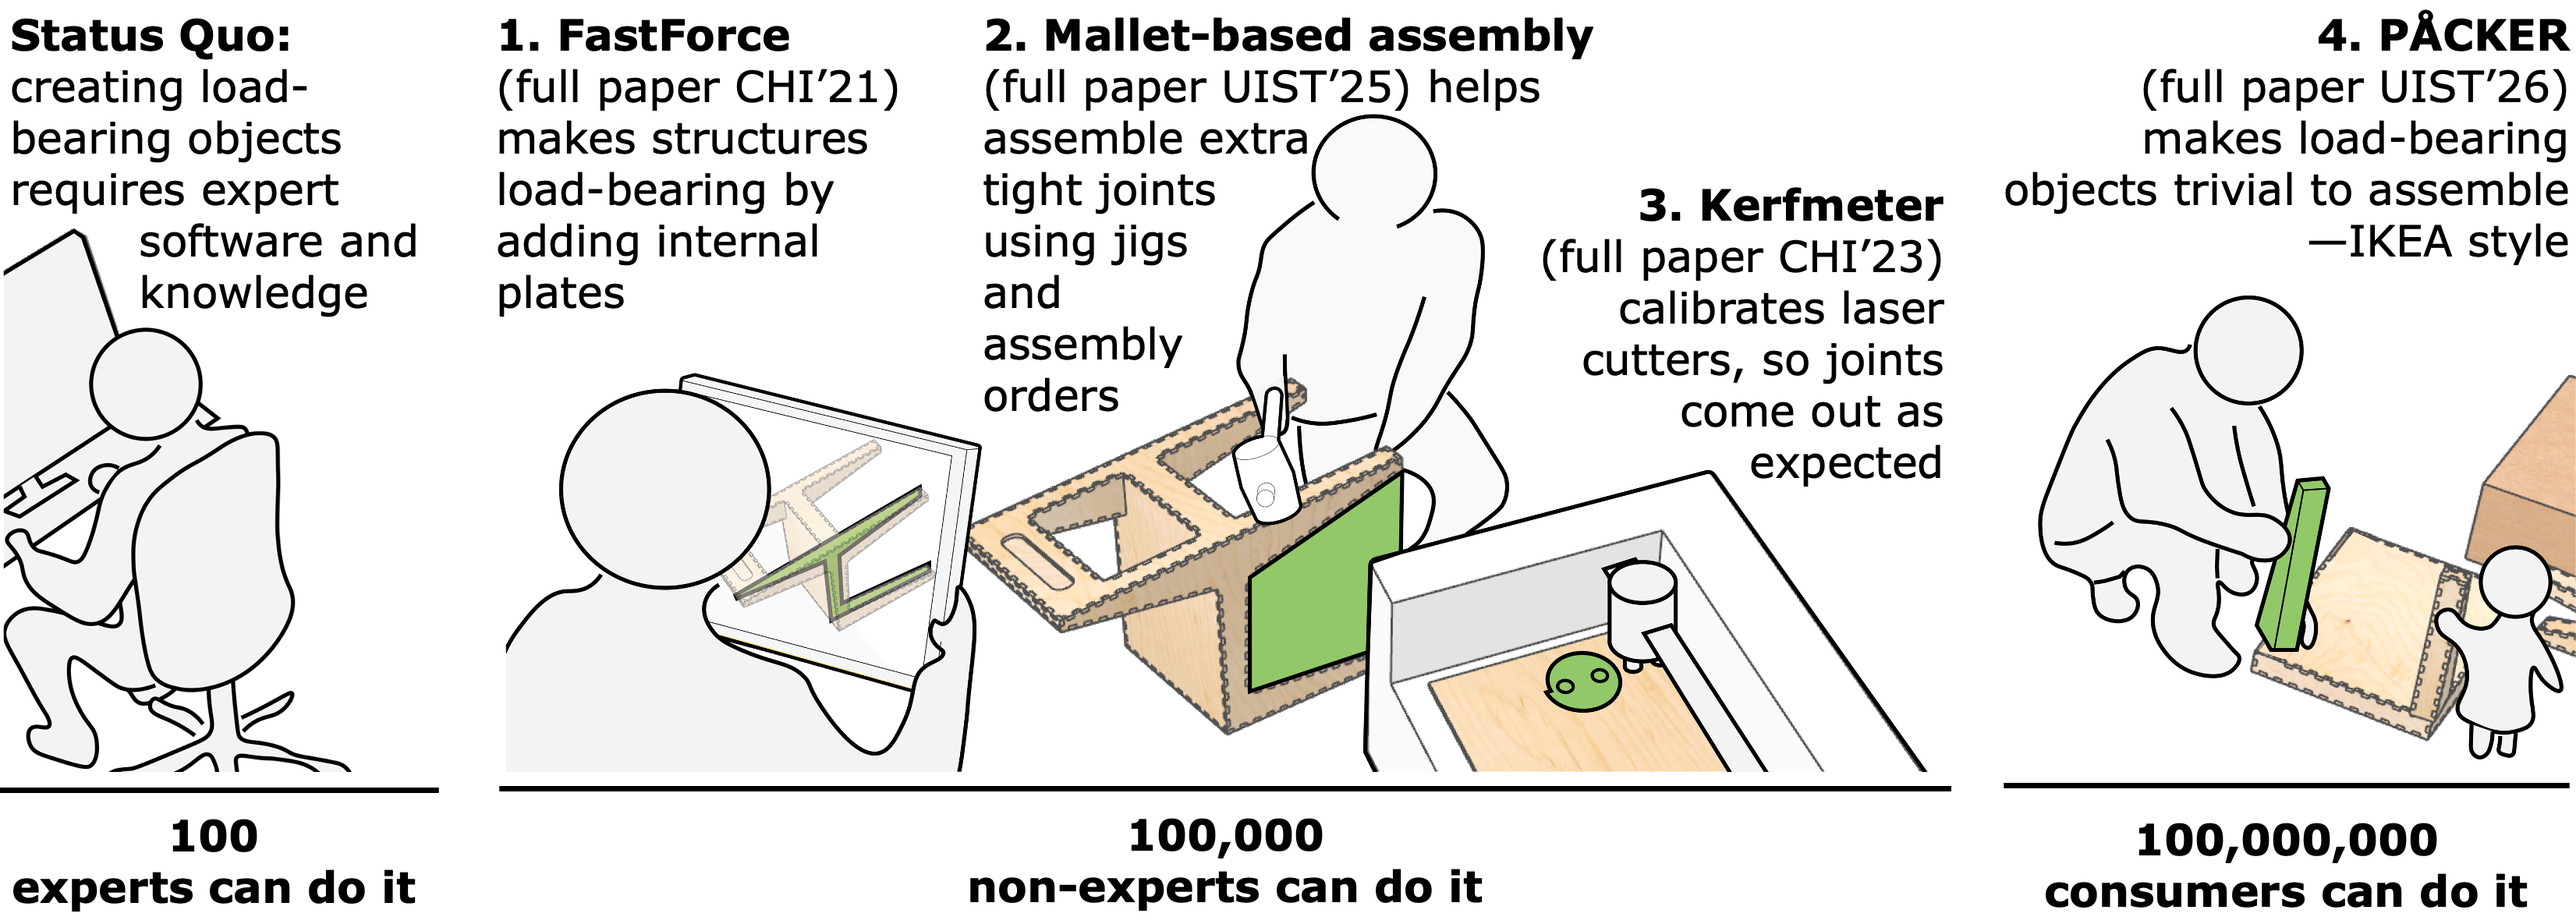
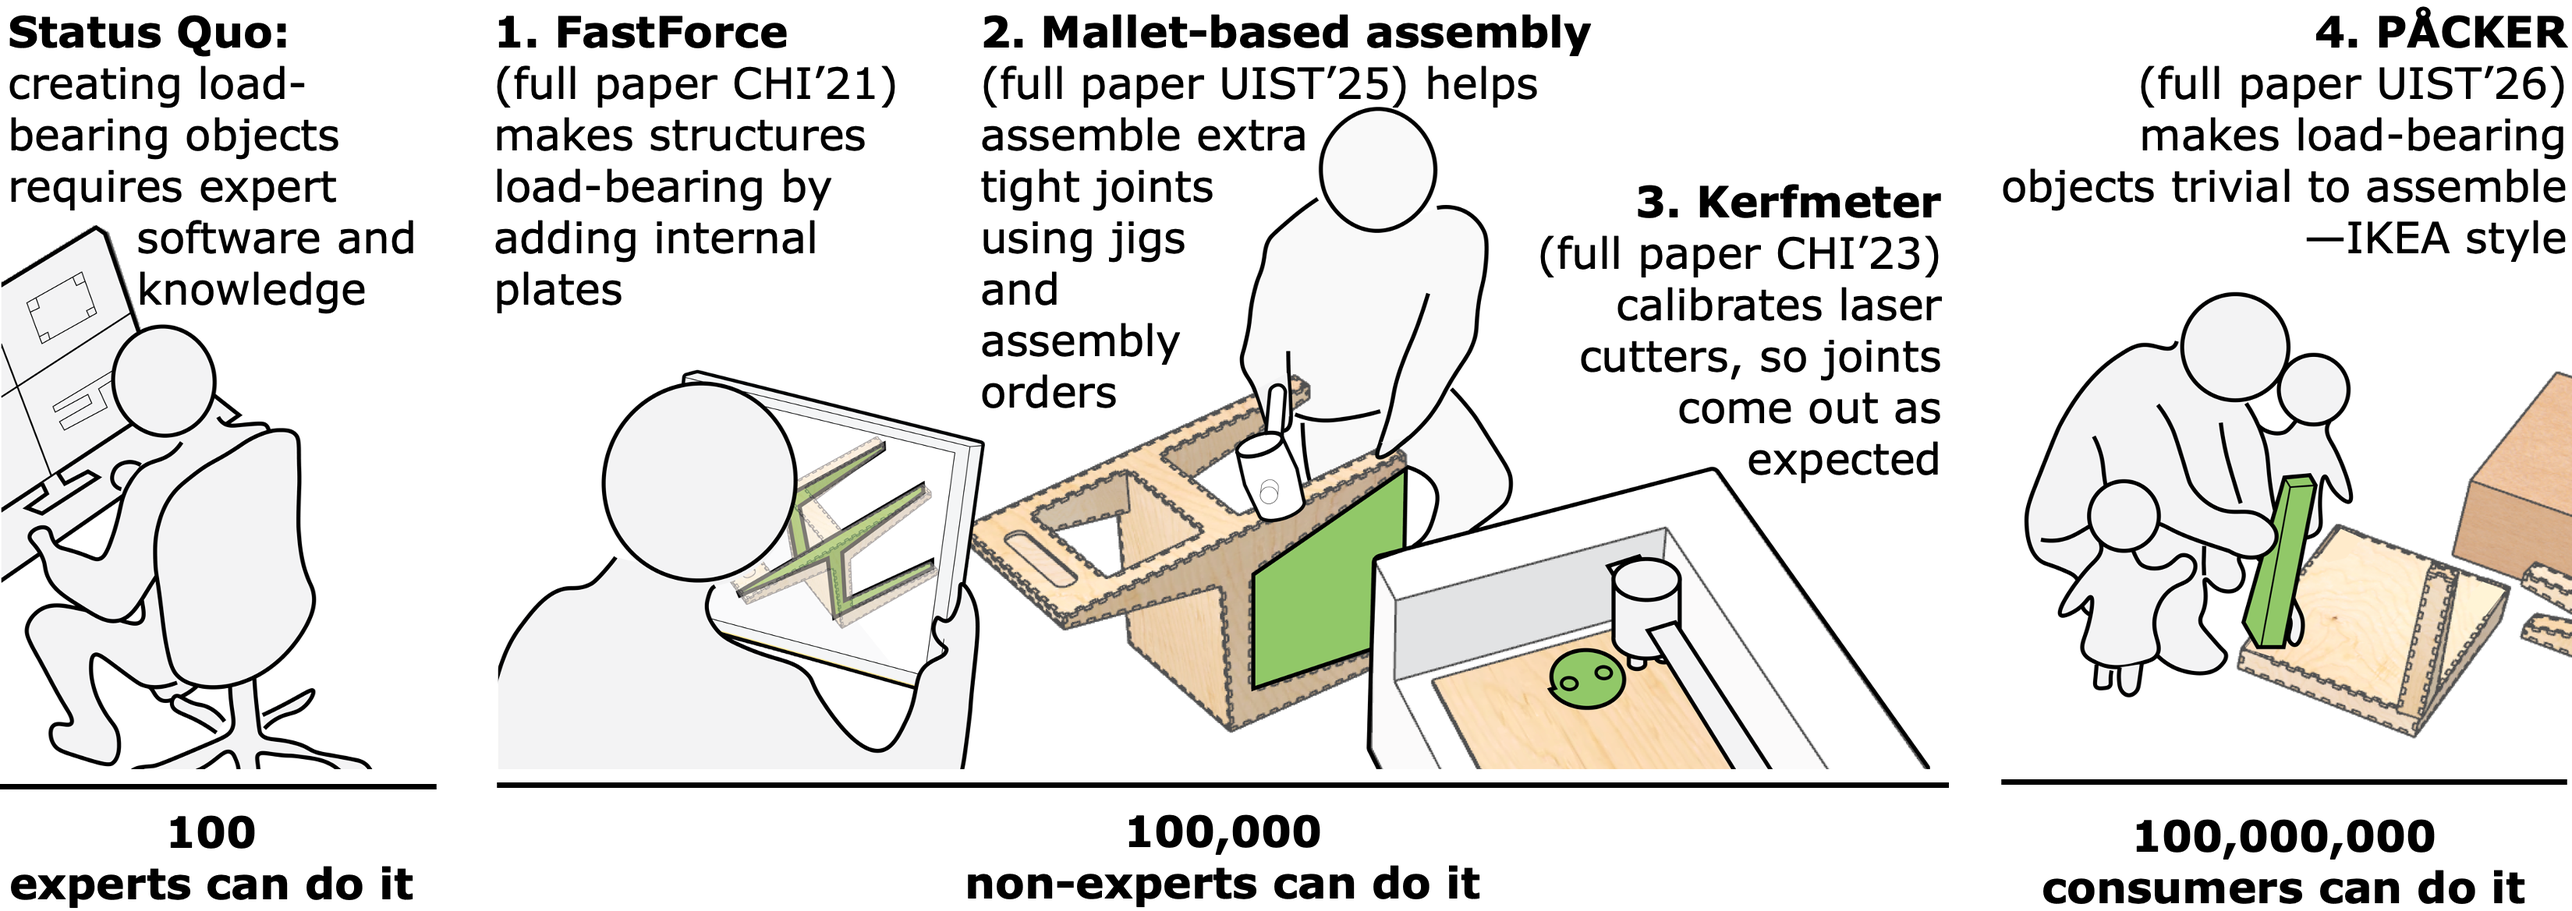
tweak figure 1

diff --git a/index.html b/index.html
@@ -56,15 +56,13 @@
             <td style="padding:20px;padding-top:0px;width:100%;vertical-align:middle">
               <a href="images/Figure 1.png"><img style="width:100%;max-width:100%;height:auto" alt="Overview figure of my PhD" src="images/Figure%201.png"></a>
               <p style="text-align: justify; text-justify: inter-word;">
-As summarized in the figure above, my PhD examines a vision of a future in which makers can create, or consumers can obtain, useful load-bearing physical objects, such as custom furniture.  
-          The first three enable non-experts to produce load-bearing objects. The fourth makes the object easy to ship and trivial to assemble, like IKEA furniture, thus enabling consumers to assemble load-bearing objects.        </p>            
-           
+As summarized in the figure above, my PhD envisions a future in which makers can create, and consumers can obtain, useful load-bearing physical objects such as custom furniture. Focusing on laser cutting, my first three projects enable non-experts to produce such objects. The fourth makes them easy to ship and trivial to assemble, like IKEA furniture, thus bringing load-bearing objects to consumer.
               </p> </td>
           </tr>
         </tbody></table>
         <table style="width:100%;border:0px;border-spacing:0px;border-collapse:separate;margin-right:auto;margin-left:auto;"><tbody>
           <tr>
-            <td style="padding:20px;width:100%;vertical-align:middle">
+            <td style="padding:20px;padding-bottom:0px;width:100%;vertical-align:middle">
                    <heading id="publications"> <b style="color:#A6A6A6"> publications | </b>Full papers at CHI/UIST</heading>
             </td>
           </tr>
